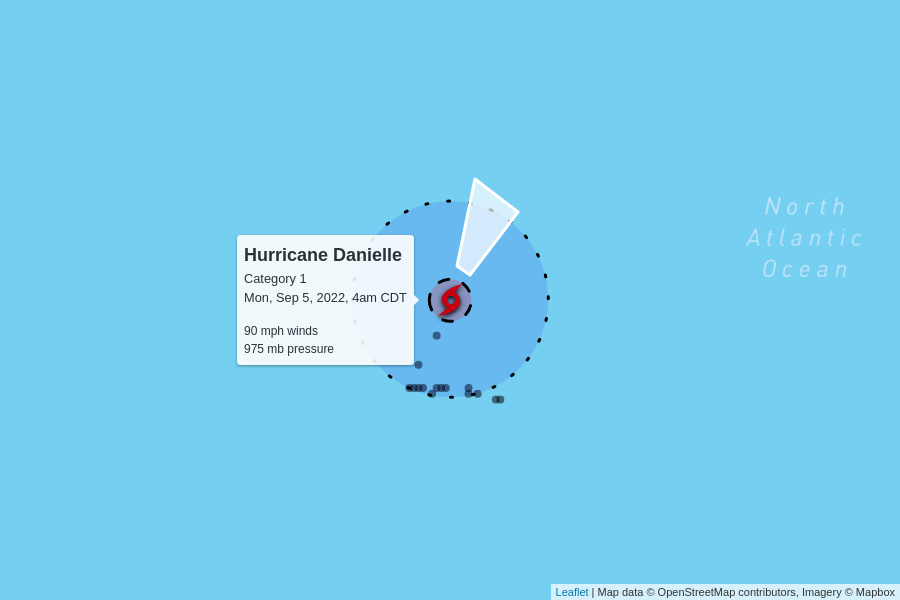
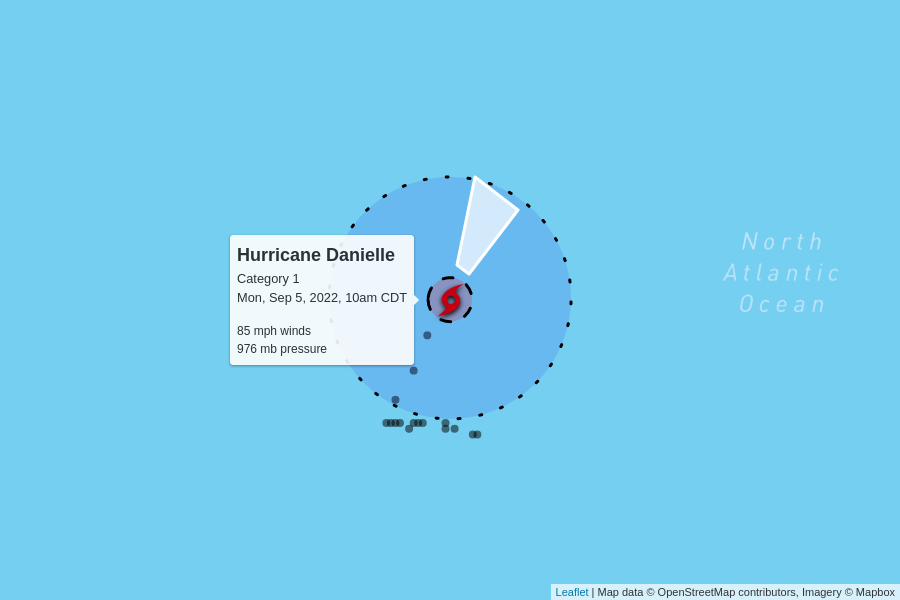
automatic update

diff --git a/docs/index.html b/docs/index.html
@@ -97,10 +97,54 @@
 
     <table>
       <tr>
+        <td colspan="6" class="storm category-1" >
+          <h2>
+            Hurricane Danielle - Category 1
+            <p class="updated">last updated <span data-time>2022-09-05T15:00:00.000Z</span></p>
+          </h2>
+        </td>
+      </tr>
+      
+      <tr>
+        <th class="spacer"></th>
+        <th>wind speed</th>
+        <th>central pressure</th>
+        <th>movement</th>
+        <th>data (CSV)</th>
+        <th>National Hurricane Center</th>
+      </tr>
+      <tr>
+        <td class="spacer"></td>
+        <td>85 mph</td>
+        <td>976 mb</td>
+        <td>
+          8 mph to the north-northeast
+          <br/>
+          <span style="display: inline-block; font-size: 1.5em; transform: rotate(30deg);">↑</span>
+        </td>
+        <td><a href="https://raw.githubusercontent.com/mgwalker/atlantic-hurricanes/main/data/csv/AL052022.csv">AL052022.csv</a></td>
+        <td><a href="https://www.nhc.noaa.gov/archive/2022/DANIELLE.shtml?">NHC advisories</a></td>
+      </tr>
+      <tr id="storm_AL052022" >
+        <td class="spacer">
+        <td colspan="5">
+          <figure>
+            <img src="AL052022.png">
+            <figcaption>
+              Map data &copy; <a href="https://www.openstreetmap.org/copyright">OpenStreetMap</a> contributors,
+              Imagery &copy; <a href="https://www.mapbox.com/">Mapbox</a> |
+              <a href="https://www.mapbox.com/map-feedback/" target="_blank">Improve this map</a>
+            </figcaption>
+          </figure>
+        </td>
+      </tr>
+      
+
+      <tr>
         <td colspan="6" class="storm category-0" >
           <h2>
             Tropical Storm Earl
-            <p class="updated">last updated <span data-time>2022-09-05T12:50:00.000Z</span></p>
+            <p class="updated">last updated <span data-time>2022-09-05T15:00:00.000Z</span></p>
           </h2>
         </td>
       </tr>
@@ -130,50 +174,6 @@
         <td colspan="5">
           <figure>
             <img src="AL062022.png">
-            <figcaption>
-              Map data &copy; <a href="https://www.openstreetmap.org/copyright">OpenStreetMap</a> contributors,
-              Imagery &copy; <a href="https://www.mapbox.com/">Mapbox</a> |
-              <a href="https://www.mapbox.com/map-feedback/" target="_blank">Improve this map</a>
-            </figcaption>
-          </figure>
-        </td>
-      </tr>
-      
-
-      <tr>
-        <td colspan="6" class="storm category-1" >
-          <h2>
-            Hurricane Danielle - Category 1
-            <p class="updated">last updated <span data-time>2022-09-05T09:00:00.000Z</span></p>
-          </h2>
-        </td>
-      </tr>
-      
-      <tr>
-        <th class="spacer"></th>
-        <th>wind speed</th>
-        <th>central pressure</th>
-        <th>movement</th>
-        <th>data (CSV)</th>
-        <th>National Hurricane Center</th>
-      </tr>
-      <tr>
-        <td class="spacer"></td>
-        <td>90 mph</td>
-        <td>975 mb</td>
-        <td>
-          8 mph to the north-northeast
-          <br/>
-          <span style="display: inline-block; font-size: 1.5em; transform: rotate(30deg);">↑</span>
-        </td>
-        <td><a href="https://raw.githubusercontent.com/mgwalker/atlantic-hurricanes/main/data/csv/AL052022.csv">AL052022.csv</a></td>
-        <td><a href="https://www.nhc.noaa.gov/archive/2022/DANIELLE.shtml?">NHC advisories</a></td>
-      </tr>
-      <tr id="storm_AL052022" >
-        <td class="spacer">
-        <td colspan="5">
-          <figure>
-            <img src="AL052022.png">
             <figcaption>
               Map data &copy; <a href="https://www.openstreetmap.org/copyright">OpenStreetMap</a> contributors,
               Imagery &copy; <a href="https://www.mapbox.com/">Mapbox</a> |
